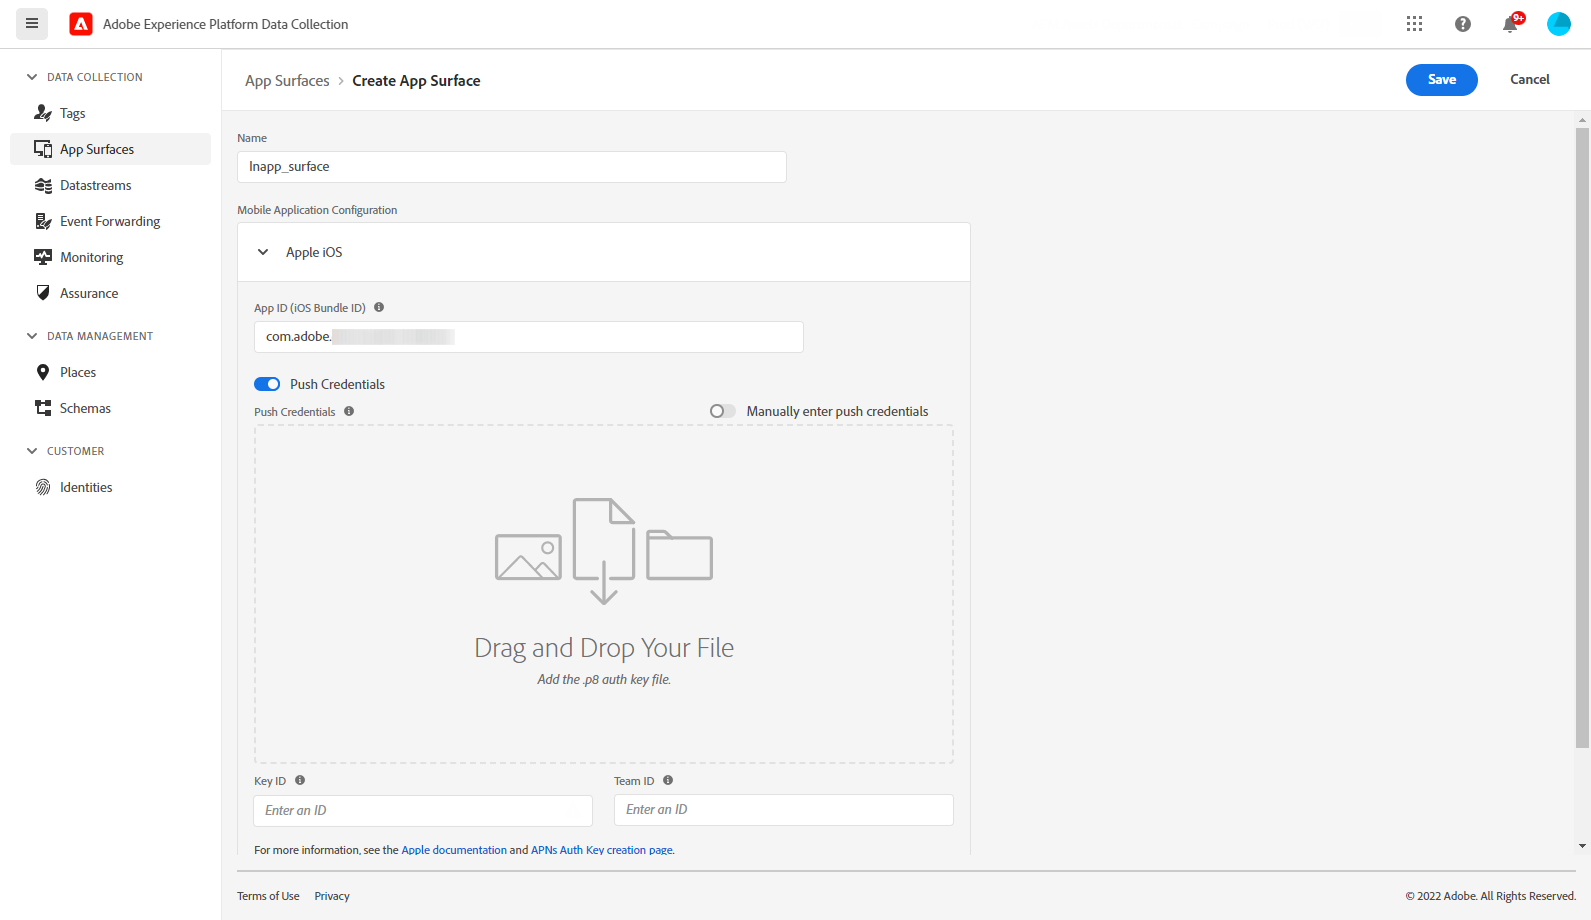
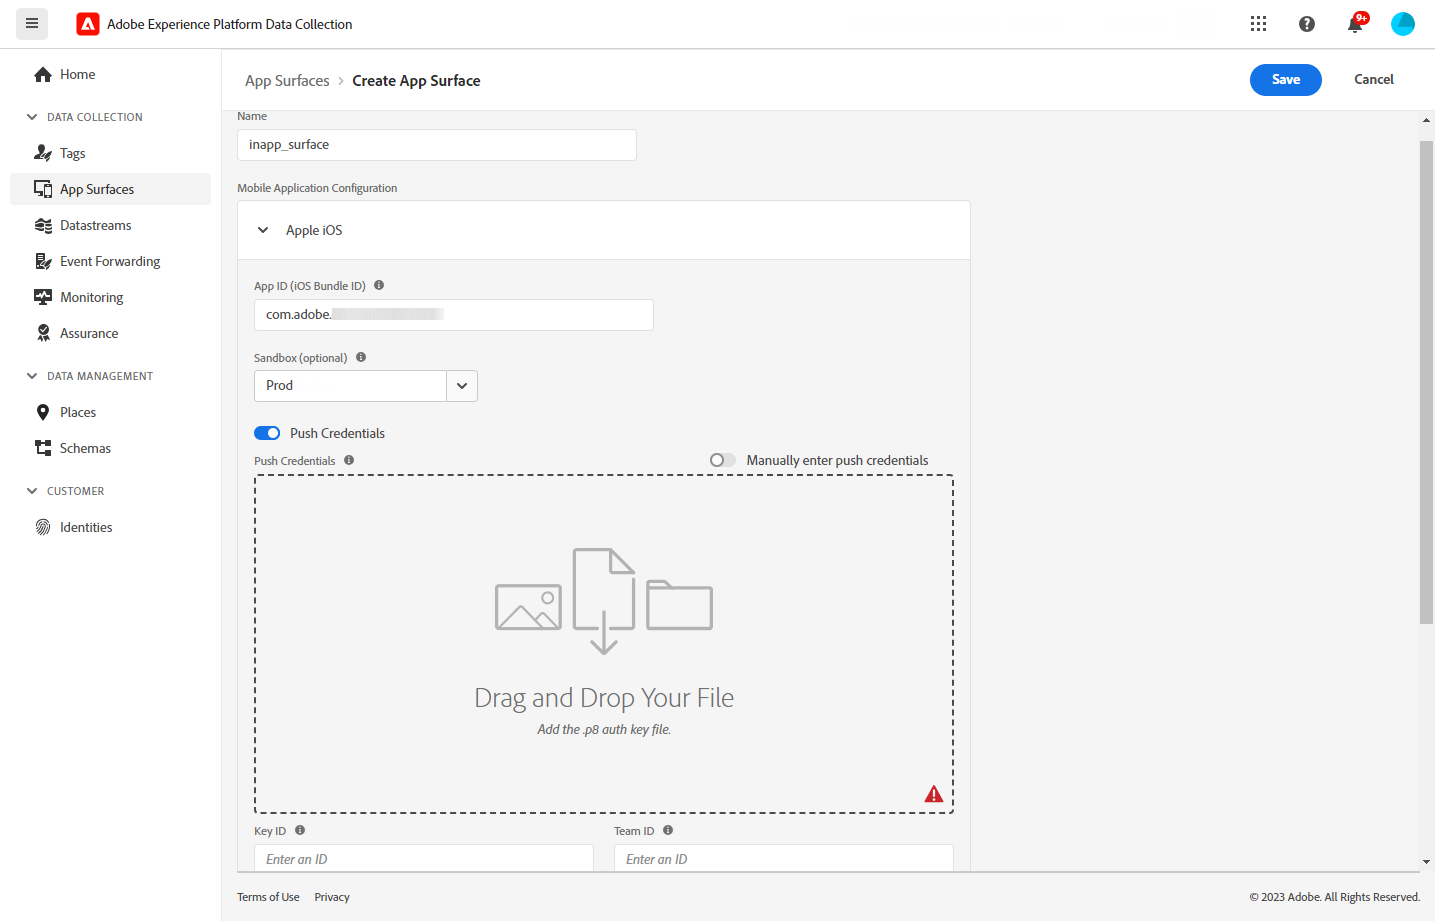
In app 23.8 (#1383)
* Sandbox selection

* in progress

* update with feedbacks

* update RN

diff --git a/help/using/in-app/inapp-configuration.md b/help/using/in-app/inapp-configuration.md
@@ -30,20 +30,47 @@ Before sending In-app messages, you need to configure your In-app channel in [!D
     >
     > You need the **Manage app configuration** permission to have access to the **[!UICONTROL App surfaces]** menu. For more information, refer to [this video](#video).
 
-    >[!NOTE]
-    >
-    > You need the **Manage app configuration** permission to have access to the **[!UICONTROL App surfaces]** menu. For more information, refer to [this video](#video).
-
     ![](assets/inapp_config_1.png)
 
 1. Add a name to your **[!UICONTROL App surface]**.
 
+    ![](assets/inapp_config_2b.png)
 
-1. From the Apple iOS drop-down, type-in your **iOS Bundle ID**. Refer to [Apple documentation](https://developer.apple.com/documentation/appstoreconnectapi/bundle_ids) for more information on **Bundle ID**.
+1. From the **[!UICONTROL Apple iOS]** drop-down, configure your mobile application for Apple iOS.
 
-    ![](assets/inapp_config_2.png)
+    +++ Learn more
+    
+    1. Type-in your **[!UICONTROL iOS Bundle ID]**. Refer to [Apple documentation](https://developer.apple.com/documentation/appstoreconnectapi/bundle_ids) for more information on **Bundle ID**.
 
-1. From the Android drop-down, type-in your **Android package name**. Refer to [Android documentation](https://support.google.com/admob/answer/9972781?hl=en#:~:text=The%20package%20name%20of%20an,supported%20third%2Dparty%20Android%20stores) for more information on **Package name**.
+    1. (optional) Choose the **[!UICONTROL Sandbox]** where you want to send push notifications from. Note that choosing a specific Sandbox requires the necessary access permissions.
+
+        For more information on sandbox management, refer to [this page](../administration/sandboxes.md#assign-sandboxes).
+
+    1. Enable the **[!UICONTROL Push credentials]** option to drag and drop your .p8 auth key file if needed.
+
+        You can also enable the **[!UICONTROL Manually enter push credentials]** option to copy and paste your APNs auth key directly.
+
+    1. Enter your **[!UICONTROL Key ID]** and **[!UICONTROL Team ID]**.
+
+        ![](assets/inapp_config_2.png)
+
+    +++
+
+1. From the **[!UICONTROL Android]** drop-down, configure your mobile application for Android.
+
+    +++ Learn more
+
+    1. Type-in your **[!UICONTROL Android package name]**. Refer to [Android documentation](https://support.google.com/admob/answer/9972781?hl=en#:~:text=The%20package%20name%20of%20an,supported%20third%2Dparty%20Android%20stores) for more information on **Package name**.
+
+    1. (optional) Choose the **[!UICONTROL Sandbox]** where you want to send push notifications from. Note that choosing a specific Sandbox requires the necessary access permissions.
+
+        For more information on sandbox management, refer to [this page](../administration/sandboxes.md#assign-sandboxes).
+
+    1. Enable the **[!UICONTROL Push credentials]** option to drag and drop your .json private key file if needed.
+
+        You can also enable the **[!UICONTROL Manually enter push credentials]** option to copy and paste your FCM private key directly.
+
+        ![](assets/inapp_config_7.png)
 
 1. Click **[!UICONTROL Save]** when you finished the configuration of your **[!UICONTROL App surface]**.
 

diff --git a/help/using/rn/release-notes.md b/help/using/rn/release-notes.md
@@ -15,6 +15,24 @@ Previous release notes are available in [this page](release-notes-2022.md). You 
 
 ![Newsletter](../assets/do-not-localize/nl-icon.png) Sign up for the [Adobe Journey Optimizer quarterly newsletter](https://www.adobe.com/subscription/Adobe_Journey_Optimizer_NL.html){target="_blank"} today, and receive the latest product updates, exciting stories, use cases, tips and more delivered directly to your inbox every quarter.
 
+## September 2023 updates {#sept-rn-2023}
+
+### New capabilities{#sept-2023-features}
+
+<table>
+<thead>
+<tr>
+<th><strong>Per-Sandbox mobile application credentials storage</strong><br/></th>
+</tr>
+</thead>
+<tbody>
+<tr>
+<td>
+<p>This new feature allows you to easily manage and associate push credentials with a dedicated sandbox in App Surfaces.</p>
+<p>For more information, refer to the <a href="../in-app/inapp-configuration.md">detailed documentation</a>.</p>
+</tr>
+</tbody>
+</table>
 
 ## August 2023 release notes {#aug-rn-2023}
 
